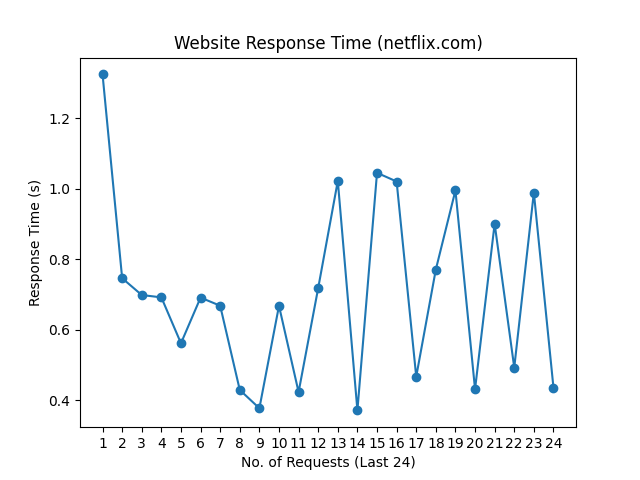
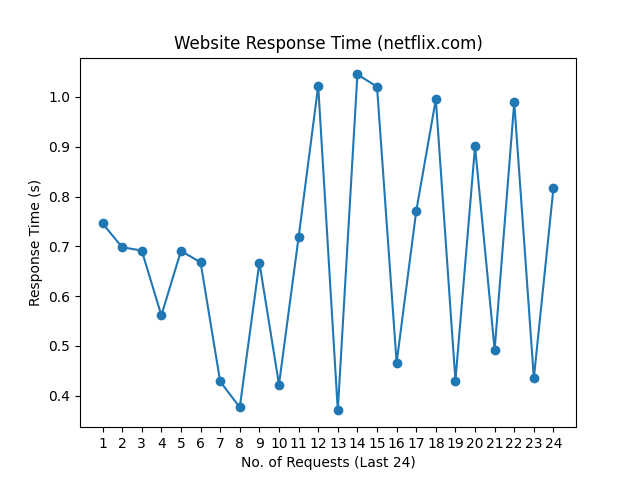
update README.md, history and graph

diff --git a/README.md b/README.md
@@ -1,10 +1,10 @@
 # Web Monitoring
 
-Last Checked: 20/05/2024 08:16
+Last Checked: 21/05/2024 08:16
 
 | Website | Response Time (s) | Status | Avg Uptime (%) |
 |---------|-------------------|--------|----------------|
 | www.thiswebsiteisdown.net | 0 <br> <img src="graph/thiswebsiteisdown.net.png" alt="Graph" width="200" height="200">  | ❌ Down | 0.00 |
-| www.netflix.com | 0.435494 <br> <img src="graph/netflix.com.png" alt="Graph" width="200" height="200">  | ✅ Up | 100.00 |
-| www.google.com | 0.156000 <br> <img src="graph/google.com.png" alt="Graph" width="200" height="200">  | ✅ Up | 100.00 |
-| www.facebook.com | 0.255470 <br> <img src="graph/facebook.com.png" alt="Graph" width="200" height="200">  | ✅ Up | 100.00 |
+| www.netflix.com | 0.817251 <br> <img src="graph/netflix.com.png" alt="Graph" width="200" height="200">  | ✅ Up | 100.00 |
+| www.google.com | 0.263500 <br> <img src="graph/google.com.png" alt="Graph" width="200" height="200">  | ✅ Up | 100.00 |
+| www.facebook.com | 0.361855 <br> <img src="graph/facebook.com.png" alt="Graph" width="200" height="200">  | ✅ Up | 100.00 |
